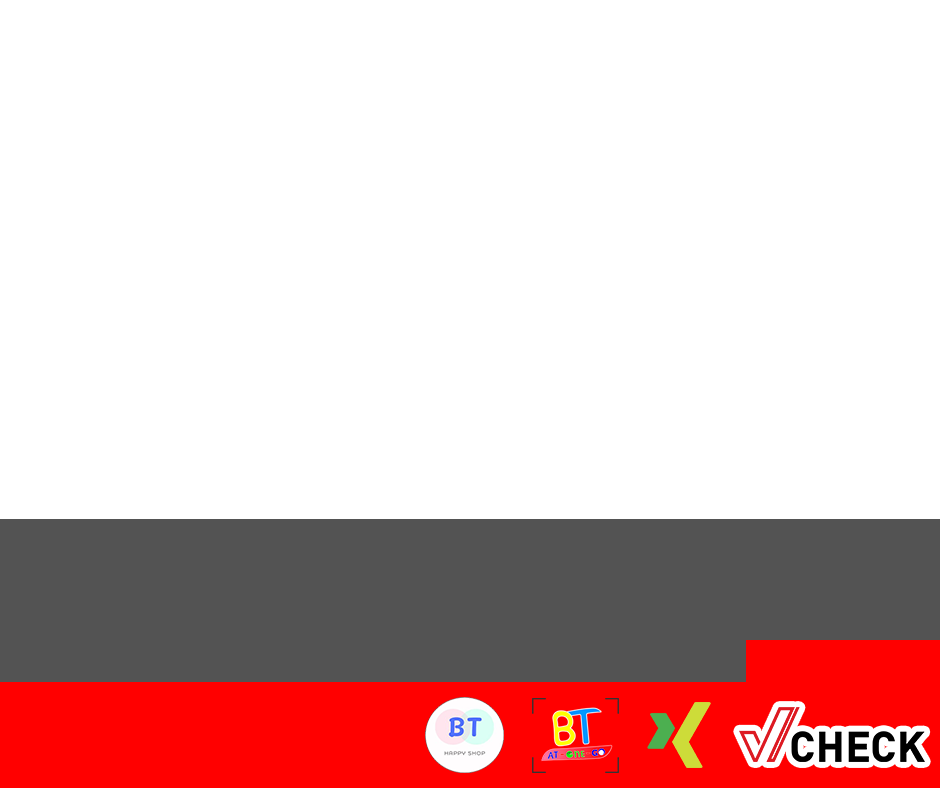
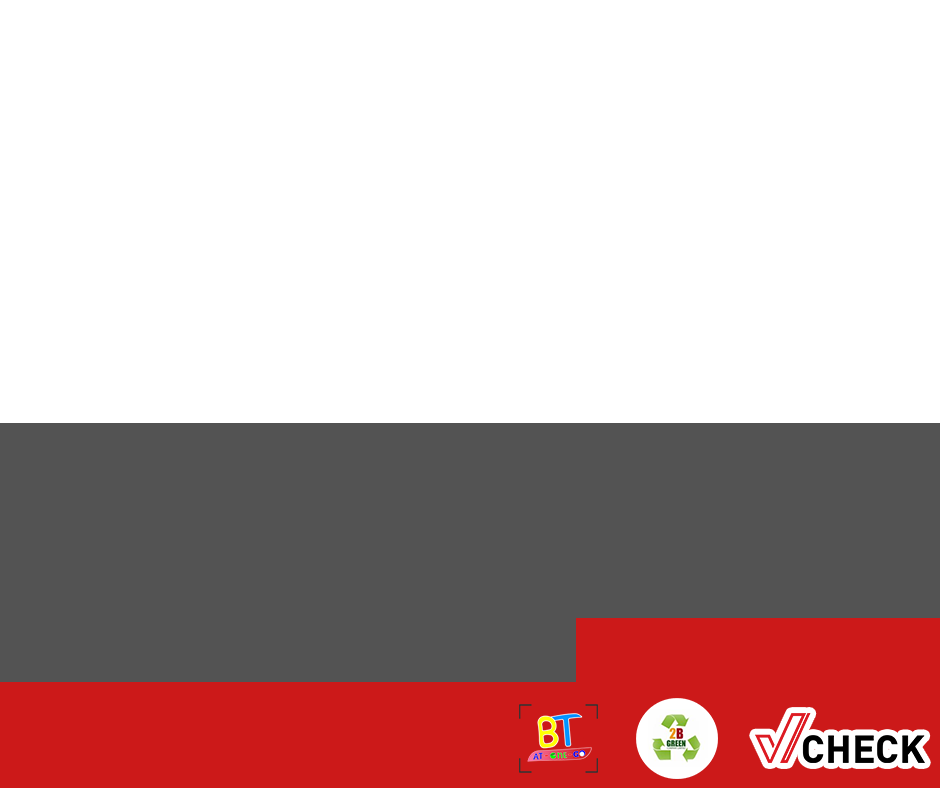
update

Changed region(s): [[0.0, 0.7614, 1.0, 1.0], [0.0, 0.5178, 1.0, 0.6701]]

diff --git a/app/Http/Controllers/NewsController.php b/app/Http/Controllers/NewsController.php
@@ -134,7 +134,7 @@ class NewsController extends Controller
             $requestData['cover_photo_facebook'] = 'img/facebook/'.$news_facebook.'.png';
             // endfacebook
 
-            // web
+            // WEB
             // ปรับขนาดภาพ
             $image->fit(940, 788);
 
@@ -150,30 +150,30 @@ class NewsController extends Controller
             $image->insert($bg)->save('img/news/'.$news.'.png');
 
             // หัวข้อข่าว
-            $image->text($requestData['title'], 30, 595, function($font) {
+            $image->text($requestData['title'], 30, 515, function($font) {
                 $font->file(public_path('fonts/Prompt/Prompt-Black.ttf'));
-                $font->size(60);
+                $font->size(80);
                 $font->color('#FFFFFF');
             });
 
             // สถานที่
-            $image->text($requestData['location'], 30, 660, function($font) {
+            $image->text($requestData['location'], 30, 588, function($font) {
                 $font->file(public_path('fonts/Prompt/Prompt-Black.ttf'));
-                $font->size(30);
+                $font->size(43);
                 $font->color('#FFFFFF');
             });
 
             // วันที่เพิ่มข่าว
-            $image->text($date_now, 780, 675, function($font) {
-                $font->file(public_path('fonts/Prompt/Prompt-Italic.ttf'));
-                $font->size(26);
+            $image->text("วันที่ : ".$date_now, 620, 670, function($font) {
+                $font->file(public_path('fonts/Prompt/Prompt-Black.ttf'));
+                $font->size(36);
                 $font->color('#FFFFFF');
             });
 
             // reporter
-            $image->text('REPORTER : '.$requestData['name'], 15, 770, function($font) {
+            $image->text('REPORTER : '.$requestData['name'], 15, 670, function($font) {
                 $font->file(public_path('fonts/Prompt/Prompt-Italic.ttf'));
-                $font->size(22);
+                $font->size(34);
                 $font->color('#FFFFFF');
             });
 
